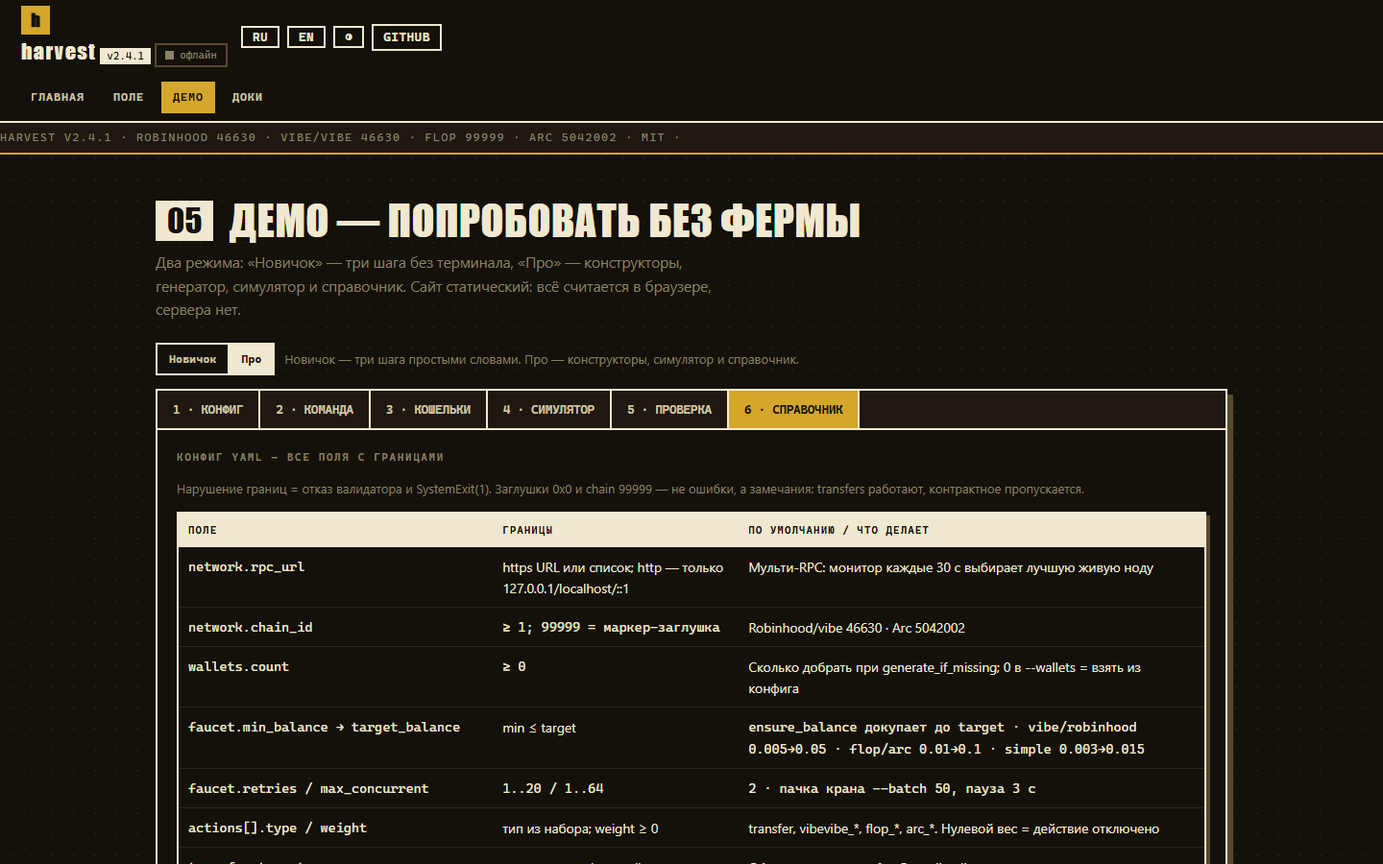
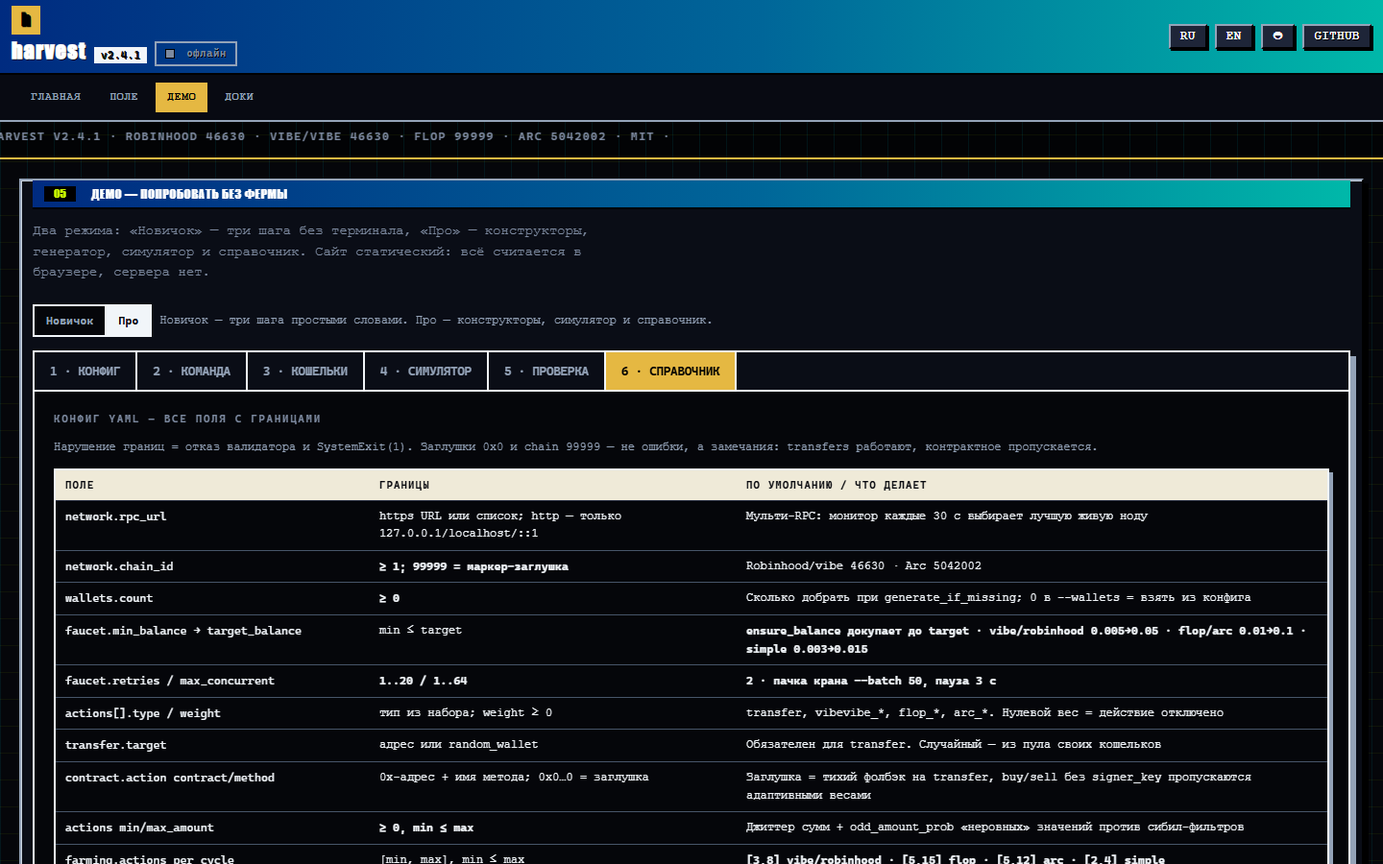
Вернуть синюю тему Terminal: 4-я тема по умолчанию, без поломок остальных
terminal.css восстановлен как скопленная тема html[data-theme=terminal] вместо голого :root (именно он перебивал paper/moss). Дефолт hv-theme — terminal, глиф ◓, SW-кэш bump до harvest-v2.4.3 + precache, verify-гарды, пины playwright/pillow в site CI, матрица на 4 темы. По дороге: полный набор токенов (навигация была тёмной-на-тёмном), hg_themes_v i18n.

diff --git a/docs/assets/terminal.css b/docs/assets/terminal.css
@@ -1,0 +1,118 @@
+/* harvest terminal theme — Y2K command center: синий фон, циан, кислота, янтарь.
+   Подключён ПОСЛЕ site.css, но ничего чужого не перебивает: все правила
+   висят на html[data-theme="terminal"] — специфичность (0,1,1) выигрывает
+   у :root (0,1,0) только внутри своей темы. Именно так terminal.css
+   когда-то ломал paper/moss (голый :root последним) — больше не повторится.
+   Палитра живёт здесь же: build_tokens.py знает только общие ключи,
+   acid/cyan — собственность этой темы. */
+html[data-theme="terminal"]{
+  --bg:#05060a; --bg2:#0a0d16; --panel:#0a0d16; --panel2:#111625; --inset:#020306;
+  --ink:#f1f5f9; --ink2:#94a3b8; --muted:#7d8aa0; --line:#475569; --line2:#94a3b8;
+  --dots:#0d1526;
+  --gold:#e5b842; --gold-ink:#000000;
+  --paper:#efead8; --chip:#f1f5f9; --chip-ink:#05060a;
+  --ok:#ccff00; --warn:#f59e0b; --err:#ff0055; --blue:#00f0ff;
+  --acid:#ccff00; --cyan:#00f0ff; --red:#ff0055; --amber:#f59e0b;
+  --cream:#efead8; --edge:#94a3b8; --dim:#94a3b8;
+  color-scheme:dark;
+  background:var(--bg);
+}
+html[data-theme="terminal"] body{
+  margin:0; background:var(--bg); color:var(--ink);
+  font-family:"Courier New",ui-monospace,Menlo,Consolas,monospace;
+  font-size:14px; line-height:1.55;
+}
+html[data-theme="terminal"] body::before{
+  content:""; position:fixed; inset:0; pointer-events:none; z-index:0;
+  background-size:28px 28px;
+  background-image:
+    linear-gradient(to right,rgba(0,240,255,.08) 1px,transparent 1px),
+    linear-gradient(to bottom,rgba(204,255,0,.06) 1px,transparent 1px);
+}
+html[data-theme="terminal"] a{color:var(--cyan)}
+html[data-theme="terminal"] .win{
+  background:var(--panel); position:relative; z-index:1;
+  border-top:2px solid var(--edge); border-left:2px solid var(--edge);
+  border-right:2px solid #000; border-bottom:2px solid #000;
+  box-shadow:inset 1px 1px 0 #cbd5e1,5px 5px 0 #000;
+}
+html[data-theme="terminal"] .titlebar{
+  background:linear-gradient(90deg,#002b80 0%,#006699 55%,#00b8a9 100%);
+  border-bottom:2px solid #000; color:#fff;
+  padding:6px 12px; font-weight:900; font-size:12px; letter-spacing:.5px;
+  display:flex; align-items:center; justify-content:space-between; gap:8px;
+  text-shadow:1px 1px 0 #000;
+}
+html[data-theme="terminal"] .titlebar.gold{background:linear-gradient(90deg,#b37d00 0%,#e5b842 45%,#ccff00 100%); color:#000; text-shadow:none}
+html[data-theme="terminal"] .inset{
+  background:var(--inset);
+  border-top:2px solid #000; border-left:2px solid #000;
+  border-right:2px solid var(--line); border-bottom:2px solid var(--line);
+}
+html[data-theme="terminal"] .btn{
+  background:#1e2538; color:#fff; font:inherit; font-size:12px; font-weight:700;
+  border-top:2px solid var(--edge); border-left:2px solid var(--edge);
+  border-right:2px solid #000; border-bottom:2px solid #000;
+  box-shadow:2px 2px 0 #000; padding:7px 12px; cursor:pointer;
+}
+html[data-theme="terminal"] .btn:hover{background:#28324b; color:var(--acid); border-top-color:var(--acid); border-left-color:var(--acid)}
+html[data-theme="terminal"] .btn:active{border-top:2px solid #000; border-left:2px solid #000; border-right:2px solid var(--edge); border-bottom:2px solid var(--edge); box-shadow:none; transform:translate(2px,2px)}
+html[data-theme="terminal"] .btn.acid{background:var(--acid); color:#000; border-top-color:#fff; border-left-color:#fff; font-weight:900}
+html[data-theme="terminal"] .btn.on{color:var(--acid); border-top-color:var(--acid); border-left-color:var(--acid)}
+html[data-theme="terminal"] .wrap{max-width:1400px; margin:0 auto; padding:16px 12px 48px; position:relative; z-index:1}
+html[data-theme="terminal"] .topbar{position:sticky; top:0; z-index:30; background:#080a12; border-bottom:2px solid var(--edge)}
+html[data-theme="terminal"] .ticker{overflow:hidden; white-space:nowrap; background:#020305; border-top:1px solid #334155; padding:6px 0; font-size:12px; font-weight:700; color:var(--acid)}
+html[data-theme="terminal"] .ticker-in{display:inline-block; padding-left:0; animation:tick 30s linear infinite}
+html[data-theme="terminal"] .ticker-in:hover{animation-play-state:paused}
+@keyframes tick{0%{transform:translateX(0)}100%{transform:translateX(-50%)}}
+html[data-theme="terminal"] .hero{padding:26px 22px}
+html[data-theme="terminal"] .hero h1{margin:10px 0 8px; font-family:"Arial Black",Impact,sans-serif; font-size:clamp(28px,5vw,54px); line-height:1.02; text-transform:uppercase; border-left:8px solid var(--acid); padding-left:14px; text-shadow:4px 4px 0 #000}
+html[data-theme="terminal"] .hero h1 .a{color:var(--acid)}
+html[data-theme="terminal"] .kicker{display:inline-block; background:#020306; border:2px solid var(--cyan); color:var(--cyan); font-size:12px; font-weight:900; padding:4px 10px}
+html[data-theme="terminal"] .pane{padding:14px}
+html[data-theme="terminal"] .pane h2{margin:0 0 10px; font-size:13px}
+html[data-theme="terminal"] table.t{width:100%; border-collapse:collapse; font-size:12px}
+html[data-theme="terminal"] table.t th{background:var(--cream); color:#090a0f; text-align:left; padding:7px 10px; font-size:11px; text-transform:uppercase}
+html[data-theme="terminal"] table.t td{padding:7px 10px; border-top:1px solid #252b3f; vertical-align:top}
+html[data-theme="terminal"] .num{font-weight:700}
+html[data-theme="terminal"] .pill{display:inline-block; padding:1px 8px; font-size:11px; font-weight:900; border:2px solid currentColor}
+html[data-theme="terminal"] .pill.ok{color:var(--acid)} html[data-theme="terminal"] .pill.warn{color:var(--amber)} html[data-theme="terminal"] .pill.err{color:var(--red)} html[data-theme="terminal"] .pill.dim{color:var(--dim)}
+html[data-theme="terminal"] .dot{display:inline-block; width:10px; height:10px; border:1px solid #000; margin-right:6px; vertical-align:baseline}
+html[data-theme="terminal"] .cells{display:grid; gap:3px; grid-template-columns:repeat(auto-fill,minmax(13px,1fr)); padding:10px; max-height:300px; overflow-y:auto}
+html[data-theme="terminal"] .cell{height:14px; border:1px solid #000; cursor:pointer; padding:0}
+html[data-theme="terminal"] .cell.si{background:#3a4356} html[data-theme="terminal"] .cell.sw{background:var(--cyan)} html[data-theme="terminal"] .cell.so{background:var(--acid)}
+html[data-theme="terminal"] .cell.se{background:var(--red)} html[data-theme="terminal"] .cell.sr{background:var(--amber)}
+html[data-theme="terminal"] .cell.sel{outline:2px solid #fff; outline-offset:0}
+html[data-theme="terminal"] .cells.detail{grid-template-columns:repeat(auto-fill,minmax(44px,1fr))}
+html[data-theme="terminal"] .cells.detail .cell{height:26px; font-size:10px; font-weight:900; color:#000; display:flex; align-items:center; justify-content:center}
+html[data-theme="terminal"] .toolbar{display:flex; flex-wrap:wrap; gap:8px; margin:10px 0}
+html[data-theme="terminal"] .kv{display:grid; grid-template-columns:auto 1fr; gap:4px 14px; font-size:12px}
+html[data-theme="terminal"] .kv dt{color:var(--dim)} html[data-theme="terminal"] .kv dd{margin:0; font-weight:700; word-break:break-all}
+html[data-theme="terminal"] .log{font-size:11px; max-height:180px; overflow-y:auto; padding:8px 10px}
+html[data-theme="terminal"] .log div{white-space:nowrap; overflow:hidden; text-overflow:ellipsis}
+html[data-theme="terminal"] .note{color:var(--dim); font-size:12px}
+html[data-theme="terminal"] .secttl{font-size:12px; color:var(--cyan); font-weight:900; margin:0 0 8px; text-transform:uppercase}
+html[data-theme="terminal"] pre.yaml{font-size:11px; color:var(--acid); padding:10px 12px; overflow-x:auto; max-height:220px}
+html[data-theme="terminal"] footer{color:var(--dim); font-size:11px; text-align:center; padding:18px}
+html[data-theme="terminal"] canvas.chart{width:100%;height:auto;background:#020306;border:2px solid #1e293b}
+@media(max-width:640px){html[data-theme="terminal"] .hero{padding:18px 14px}}
+
+/* ---- скин поверх компонентов site.css: только тема terminal.
+   Раньше этот скин висел на ink; оставлен и там — не отнимать у тех,
+   кто привык. На paper/moss — плоские поверхности site.css. */
+html[data-theme="terminal"] body{font-family:"Courier New",ui-monospace,Menlo,Consolas,monospace;background-color:var(--bg);background-image:none}
+html[data-theme="terminal"] .topbar{background:#080a12}
+html[data-theme="terminal"] .hero{padding:26px 0 10px}
+html[data-theme="terminal"] .hero h1{font-family:"Arial Black",Impact,sans-serif;text-transform:uppercase;letter-spacing:0;text-shadow:4px 4px 0 #000}
+html[data-theme="terminal"] section.block{padding:20px 0;border-bottom:2px solid #000}
+html[data-theme="terminal"] section.block>.wrap{background:#0a0d16;border-top:2px solid #94a3b8;border-left:2px solid #94a3b8;border-right:2px solid #000;border-bottom:2px solid #000;box-shadow:inset 1px 1px 0 #cbd5e1,5px 5px 0 #000;padding-top:0;padding-bottom:18px}
+html[data-theme="terminal"] .sec-head{background:linear-gradient(90deg,#002b80 0%,#006699 55%,#00b8a9 100%);border-bottom:2px solid #000;margin:0 0 12px;padding:6px 12px}
+html[data-theme="terminal"] .sec-head h2{color:#fff;font-size:13px;margin:0;letter-spacing:.5px}
+html[data-theme="terminal"] .sec-no{background:#000 !important;color:#ccff00 !important;font-size:12px !important;padding:2px 10px !important}
+html[data-theme="terminal"] .sec-head .pill{border-color:#fff;color:#fff}
+html[data-theme="terminal"] .card,html[data-theme="terminal"] .table-wrap{background:#0a0d16;border-radius:0}
+html[data-theme="terminal"] pre.code{border-radius:0}
+html[data-theme="terminal"] .btn{border-radius:0}
+html[data-theme="terminal"] #fieldGrid.zoom .cell{min-width:36px;min-height:24px;aspect-ratio:auto;font-size:10px;font-weight:900;color:#000;display:flex;align-items:center;justify-content:center}
+html[data-theme="terminal"] #fxInspector b{color:#ccff00}
+html[data-theme="terminal"] #mainNav .btn{font-size:11px}

diff --git a/docs/assets/common.js b/docs/assets/common.js
@@ -12,16 +12,17 @@ window.hv={toast,esc,fmt,version:VERSION};
 try{console.log("%c harvest "+VERSION+" %c EVM testnet farmer · ключи остаются в браузере ","background:#D4A72C;color:#14110A;font-weight:bold","color:#9A8F73")}catch(e){}
 
 /* ---------- theme ---------- */
-const themes=["paper","ink","moss"];
+const themes=["paper","ink","moss","terminal"];
+const _themeGlyph={paper:"◐",ink:"◑",moss:"◒",terminal:"◓"};
 const _store=(()=>{
   try{
     const t={get:(k,f)=>{try{const v=localStorage.getItem(k);return v===null?f:v;}catch(e){return f;}},set:(k,v)=>{try{localStorage.setItem(k,v);}catch(e){}}};
     t.get("hv-theme");return t;
   }catch(e){return{get:(k,f)=>f,set:()=>{}};}
 })();
-let theme=_store.get("hv-theme","ink");
-if(!themes.includes(theme)){theme="ink";_store.set("hv-theme",theme);}
-function applyTheme(){document.documentElement.dataset.theme=theme;const b=$("#themeBtn");if(!b)return;b.textContent=theme==="paper"?"◐":theme==="ink"?"◑":"◒";b.setAttribute("aria-label","Theme: "+theme);b.setAttribute("aria-pressed",theme==="paper"?"false":"true");}
+let theme=_store.get("hv-theme","terminal");
+if(!themes.includes(theme)){theme="terminal";_store.set("hv-theme",theme);}
+function applyTheme(){document.documentElement.dataset.theme=theme;const b=$("#themeBtn");if(!b)return;b.textContent=_themeGlyph[theme]||"◓";b.setAttribute("aria-label","Theme: "+theme);b.setAttribute("aria-pressed",theme==="paper"?"false":"true");}
 const _themeBtn=$("#themeBtn");
 if(_themeBtn)_themeBtn.addEventListener("click",()=>{theme=themes[(themes.indexOf(theme)+1)%themes.length];_store.set("hv-theme",theme);applyTheme();if(window.hvRedraw)try{window.hvRedraw();}catch(e){}});
 applyTheme();
@@ -36,7 +37,7 @@ cta_live:"Open the field",cta_demo:"Try the demo",cta_bot:"Telegram bot",
 hero_kicker:"TESTNETS · PYTHON 3.12 · MIT",hero_kicker_r:"NO DROP PROMISES",
 hero_note:"Testnets only. Demo keys stay in your browser; the farm runs on your computer. No drop or profit guarantees: it's a tool, not a lottery ticket.",
 contacts:"Author:",
-hg_t:"What's inside",hg_nets:"Networks",hg_nets_v:"4 testnets · Robinhood, Flop, Arc, vibe/vibe",hg_control:"Control",hg_control_v:"Python CLI · menu · web portal · Telegram",hg_themes:"Themes / languages",hg_license:"License",hg_license_v:"MIT · read it, change it",hg_term:"Three commands to the menu",
+hg_t:"What's inside",hg_nets:"Networks",hg_nets_v:"4 testnets · Robinhood, Flop, Arc, vibe/vibe",hg_control:"Control",hg_control_v:"Python CLI · menu · web portal · Telegram",hg_themes:"Themes / languages",hg_themes_v:"Paper · Ink · Moss · Terminal / RU · EN",hg_license:"License",hg_license_v:"MIT · read it, change it",hg_term:"Three commands to the menu",
 net_vibe_note:"— launchpad on Robinhood",net_vibe_act:"transfer · buy/sell — with signer_key",
 code_menu:"# menu: network → farm",code_dry:"# dry run, no transactions",code_portal:"# aiohttp + API + bot",code_tests:"# local check",code_publish:"# state.json → gh-pages → site field",
 sl_h:"The field — what's happening now",sl_sub:"The farm publishes a snapshot here: metrics, history and the wallet grid. The site re-reads state.json once a minute; a publish usually happens every 30 minutes. If there's no snapshot yet, the page will be empty — that's normal, not a broken site.",

diff --git a/docs/index.html b/docs/index.html
@@ -1,5 +1,5 @@
 <!DOCTYPE html>
-<html lang="ru" data-theme="ink">
+<html lang="ru" data-theme="terminal">
 <head>
 <meta charset="utf-8">
 <meta name="viewport" content="width=device-width, initial-scale=1">
@@ -22,6 +22,7 @@
 try{if(!matchMedia("(prefers-reduced-motion: reduce)").matches){document.documentElement.classList.add("rv");addEventListener("load",function(){setTimeout(function(){document.documentElement.classList.remove("rv")},2500)})}}catch(e){}</script>
 <link rel="stylesheet" href="assets/tokens.css">
 <link rel="stylesheet" href="assets/site.css">
+<link rel="stylesheet" href="assets/terminal.css">
 <noscript><style>nav.main{display:flex !important;position:static !important;max-height:none !important}</style></noscript>
 </head>
 <body class="is-loading">
@@ -41,7 +42,7 @@ if(map[h])location.replace(map[h]+"#"+h);
     <span style="display:flex;gap:8px;align-items:center">
       <button id="navToggle" class="nav-toggle" type="button" aria-expanded="false" aria-controls="mainNav" data-i18n-aria="aria_menu" aria-label="Меню">≡</button>
       <button id="langRu" class="btn" type="button" style="padding:2px 10px">RU</button><button id="langEn" class="btn" type="button" style="padding:2px 10px">EN</button>
-      <button id="themeBtn" class="btn" type="button" style="padding:2px 10px" title="Paper / Ink / Moss">◐</button>
+      <button id="themeBtn" class="btn" type="button" style="padding:2px 10px" title="Paper / Ink / Moss / Terminal">◐</button>
       <a class="btn" href="https://github.com/ssrjkk/harvest" target="_blank" rel="noopener" style="padding:2px 10px;text-decoration:none">GitHub</a>
     </span>
   </div>
@@ -75,7 +76,7 @@ if(map[h])location.replace(map[h]+"#"+h);
         <tr><th colspan="2" data-i18n="hg_t">Что внутри</th></tr>
         <tr><td data-i18n="hg_nets">Сети</td><td class="num" data-i18n="hg_nets_v">4 тестовые · Robinhood, Flop, Arc, vibe/vibe</td></tr>
         <tr><td data-i18n="hg_control">Управление</td><td class="num" data-i18n="hg_control_v">Python CLI · меню · веб-портал · Telegram</td></tr>
-        <tr><td data-i18n="hg_themes">Темы / языки</td><td class="num">Paper · Ink · Moss / RU · EN</td></tr>
+        <tr><td data-i18n="hg_themes">Темы / языки</td><td class="num" data-i18n="hg_themes_v">Paper · Ink · Moss · Terminal / RU · EN</td></tr>
         <tr><td data-i18n="hg_license">Лицензия</td><td class="num" data-i18n="hg_license_v">MIT · код можно читать и менять</td></tr>
       </table></div>
       <div class="terminal"><div class="terminal-bar"><i></i><i></i><i></i><span data-i18n="hg_term">Три команды до меню</span></div><pre>git clone https://github.com/ssrjkk/harvest.git

diff --git a/docs/demo.html b/docs/demo.html
@@ -1,5 +1,5 @@
 <!DOCTYPE html>
-<html lang="ru" data-theme="ink">
+<html lang="ru" data-theme="terminal">
 <head>
 <meta charset="utf-8">
 <meta name="viewport" content="width=device-width, initial-scale=1">
@@ -22,6 +22,7 @@
 try{if(!matchMedia("(prefers-reduced-motion: reduce)").matches){document.documentElement.classList.add("rv");addEventListener("load",function(){setTimeout(function(){document.documentElement.classList.remove("rv")},2500)})}}catch(e){}</script>
 <link rel="stylesheet" href="assets/tokens.css">
 <link rel="stylesheet" href="assets/site.css">
+<link rel="stylesheet" href="assets/terminal.css">
 <noscript><style>nav.main{display:flex !important;position:static !important;max-height:none !important}</style></noscript>
 </head>
 <body class="is-loading">
@@ -33,7 +34,7 @@ try{if(!matchMedia("(prefers-reduced-motion: reduce)").matches){document.documen
     <span style="display:flex;gap:8px;align-items:center">
       <button id="navToggle" class="nav-toggle" type="button" aria-expanded="false" aria-controls="mainNav" data-i18n-aria="aria_menu" aria-label="Меню">≡</button>
       <button id="langRu" class="btn" type="button" style="padding:2px 10px">RU</button><button id="langEn" class="btn" type="button" style="padding:2px 10px">EN</button>
-      <button id="themeBtn" class="btn" type="button" style="padding:2px 10px" title="Paper / Ink / Moss">◐</button>
+      <button id="themeBtn" class="btn" type="button" style="padding:2px 10px" title="Paper / Ink / Moss / Terminal">◐</button>
       <a class="btn" href="https://github.com/ssrjkk/harvest" target="_blank" rel="noopener" style="padding:2px 10px;text-decoration:none">GitHub</a>
     </span>
   </div>

diff --git a/docs/docs.html b/docs/docs.html
@@ -1,5 +1,5 @@
 <!DOCTYPE html>
-<html lang="ru" data-theme="ink">
+<html lang="ru" data-theme="terminal">
 <head>
 <meta charset="utf-8">
 <meta name="viewport" content="width=device-width, initial-scale=1">
@@ -22,6 +22,7 @@
 try{if(!matchMedia("(prefers-reduced-motion: reduce)").matches){document.documentElement.classList.add("rv");addEventListener("load",function(){setTimeout(function(){document.documentElement.classList.remove("rv")},2500)})}}catch(e){}</script>
 <link rel="stylesheet" href="assets/tokens.css">
 <link rel="stylesheet" href="assets/site.css">
+<link rel="stylesheet" href="assets/terminal.css">
 <noscript><style>nav.main{display:flex !important;position:static !important;max-height:none !important}</style></noscript>
 </head>
 <body class="is-loading">
@@ -33,7 +34,7 @@ try{if(!matchMedia("(prefers-reduced-motion: reduce)").matches){document.documen
     <span style="display:flex;gap:8px;align-items:center">
       <button id="navToggle" class="nav-toggle" type="button" aria-expanded="false" aria-controls="mainNav" data-i18n-aria="aria_menu" aria-label="Меню">≡</button>
       <button id="langRu" class="btn" type="button" style="padding:2px 10px">RU</button><button id="langEn" class="btn" type="button" style="padding:2px 10px">EN</button>
-      <button id="themeBtn" class="btn" type="button" style="padding:2px 10px" title="Paper / Ink / Moss">◐</button>
+      <button id="themeBtn" class="btn" type="button" style="padding:2px 10px" title="Paper / Ink / Moss / Terminal">◐</button>
       <a class="btn" href="https://github.com/ssrjkk/harvest" target="_blank" rel="noopener" style="padding:2px 10px;text-decoration:none">GitHub</a>
     </span>
   </div>

diff --git a/docs/field.html b/docs/field.html
@@ -1,5 +1,5 @@
 <!DOCTYPE html>
-<html lang="ru" data-theme="ink">
+<html lang="ru" data-theme="terminal">
 <head>
 <meta charset="utf-8">
 <meta name="viewport" content="width=device-width, initial-scale=1">
@@ -22,6 +22,7 @@
 try{if(!matchMedia("(prefers-reduced-motion: reduce)").matches){document.documentElement.classList.add("rv");addEventListener("load",function(){setTimeout(function(){document.documentElement.classList.remove("rv")},2500)})}}catch(e){}</script>
 <link rel="stylesheet" href="assets/tokens.css">
 <link rel="stylesheet" href="assets/site.css">
+<link rel="stylesheet" href="assets/terminal.css">
 <noscript><style>nav.main{display:flex !important;position:static !important;max-height:none !important}</style></noscript>
 </head>
 <body class="is-loading">
@@ -33,7 +34,7 @@ try{if(!matchMedia("(prefers-reduced-motion: reduce)").matches){document.documen
     <span style="display:flex;gap:8px;align-items:center">
       <button id="navToggle" class="nav-toggle" type="button" aria-expanded="false" aria-controls="mainNav" data-i18n-aria="aria_menu" aria-label="Меню">≡</button>
       <button id="langRu" class="btn" type="button" style="padding:2px 10px">RU</button><button id="langEn" class="btn" type="button" style="padding:2px 10px">EN</button>
-      <button id="themeBtn" class="btn" type="button" style="padding:2px 10px" title="Paper / Ink / Moss">◐</button>
+      <button id="themeBtn" class="btn" type="button" style="padding:2px 10px" title="Paper / Ink / Moss / Terminal">◐</button>
       <a class="btn" href="https://github.com/ssrjkk/harvest" target="_blank" rel="noopener" style="padding:2px 10px;text-decoration:none">GitHub</a>
     </span>
   </div>

diff --git a/docs/sw.js b/docs/sw.js
@@ -1,6 +1,6 @@
 /* harvest SW: статика — cache-first, state.json — network-first, офлайн — offline.html.
    CACHE bump при каждом релизе: иначе клиенты сидят на старых ассетах. */
-const CACHE = "harvest-v2.4.2";
+const CACHE = "harvest-v2.4.3";
 const STATIC = [
   "./",
   "./index.html",
@@ -15,6 +15,7 @@ const STATIC = [
   "./assets/field.js",
   "./assets/demo.js",
   "./assets/site.css",
+  "./assets/terminal.css",
   "./assets/tokens.css",
   "./assets/og.png",
   "./assets/icon-192.png",

diff --git a/tools/verify_site.py b/tools/verify_site.py
@@ -58,7 +58,7 @@ def main() -> int:
                os.path.join(DOCS, "offline.html"), os.path.join(DOCS, "terminal.html")])
     for p in want:
         check(f"exists {os.path.relpath(p, ROOT)}", os.path.exists(p))
-    check("legacy terminal.css removed", not os.path.exists(os.path.join(DOCS, "assets", "terminal.css")))
+    check("terminal.css restored as theme", os.path.exists(os.path.join(DOCS, "assets", "terminal.css")))
     pages = {n: open(os.path.join(DOCS, n), encoding="utf-8").read() for n in PAGES}
     js = {n: open(os.path.join(DOCS, "assets", n), encoding="utf-8").read()
           for n in ("common.js", "field.js", "demo.js")}
@@ -76,8 +76,9 @@ def main() -> int:
     if os.path.exists(sw):
         swtxt = open(sw, encoding="utf-8").read()
         check("sw: wallets blob not precached", "wallets.enc" not in swtxt, "")
-        check("sw: terminal.css not precached", "terminal.css" not in swtxt, "")
+        check("sw: terminal.css precached", "terminal.css" in swtxt, "")
         for n in list(PAGES) + ["assets/common.js", "assets/field.js", "assets/demo.js",
+                                "assets/terminal.css",
                                 "404.html", "offline.html", "terminal.html"]:
             check(f"sw precaches {n}", f'"./{n}"' in swtxt, "")
     # Блок PnL на «Поле»: разметка, рендер и словарь — вместе, иначе блок
@@ -222,6 +223,9 @@ def main() -> int:
         html_keys |= set(re.findall(r'data-i18n(?:-ph|-aria)?="([a-z0-9_]+)"', html))
     missing_en = sorted(html_keys - en_keys)
     check("i18n keys covered by EN", not missing_en, str(missing_en))
+    check("terminal theme wired",
+          '"terminal"' in js["common.js"] and "terminal.css" in pages["index.html"]
+          and 'data-theme="terminal"' in pages["index.html"], "")
 
     # Ссылки на несуществующие ветки GitHub: master удалён, канон — main.
     # Проверяем весь docs/, а не только страницы из PAGES (футеры, 404).

diff --git a/tools/shoot_site.py b/tools/shoot_site.py
@@ -74,7 +74,7 @@ def main() -> int:
     ap.add_argument("--url", default="https://ssrjkk.github.io/harvest/")
     ap.add_argument("--out", default=str(OUT_DEFAULT))
     ap.add_argument("--width", type=int, default=1440)
-    ap.add_argument("--theme", default="ink", choices=["paper", "ink", "moss"])
+    ap.add_argument("--theme", default="terminal", choices=["paper", "ink", "moss", "terminal"])
     ap.add_argument("--lang", default="ru", choices=["ru", "en"])
     ap.add_argument("--matrix", action="store_true",
                     help="матрица 375/768/1440 × темы × языки + проверка скролла")
@@ -138,7 +138,7 @@ def _matrix(browser, args, out: Path) -> int:
     mdir.mkdir(parents=True, exist_ok=True)
     fails = 0
     for width in (375, 768, 1440):
-        for theme in ("paper", "ink", "moss"):
+        for theme in ("paper", "ink", "moss", "terminal"):
             for lang in ("ru", "en"):
                 name = f"shot-{width}-{theme}-{lang}.png"
                 ctx = browser.new_context(

diff --git a/CHANGELOG.md b/CHANGELOG.md
@@ -175,6 +175,14 @@ and this project adheres to [Semantic Versioning](https://semver.org/spec/v2.0.0
   Ключи по-прежнему считаются локально; внешний запрос — только за библиотекой
 
 ### Fixed
+- **Синяя тема Terminal вернулась — правильно.** Удаление legacy
+  `terminal.css` убило любимый сине-циановый дизайн: витрина стала
+  коричневой везде. Теперь это четвёртая тема (`Paper/Ink/Moss/
+  Terminal`, по умолчанию), а не голый `:root` поверх всех: все правила
+  под `html[data-theme="terminal"]`, остальные темы не задеты.
+  Плюс починка по дороге: полный набор токенов (навигация была
+  тёмной-на-тёмном), `aria-label` кнопки темы, SW-precache и чек
+  `terminal theme wired` в `verify_site`.
 - **Проверка zip по содержимому, а не по mtime.** `botforge zip matches sources`  пересобирает архив во временную папку и сравнивает байты: на свежем клоне
   mtime врёт в зависимости от порядка распаковки.
 - **Убран мёртвый ключ \chart\ из \state.json\.** Продюсер клал пустые массивы,
